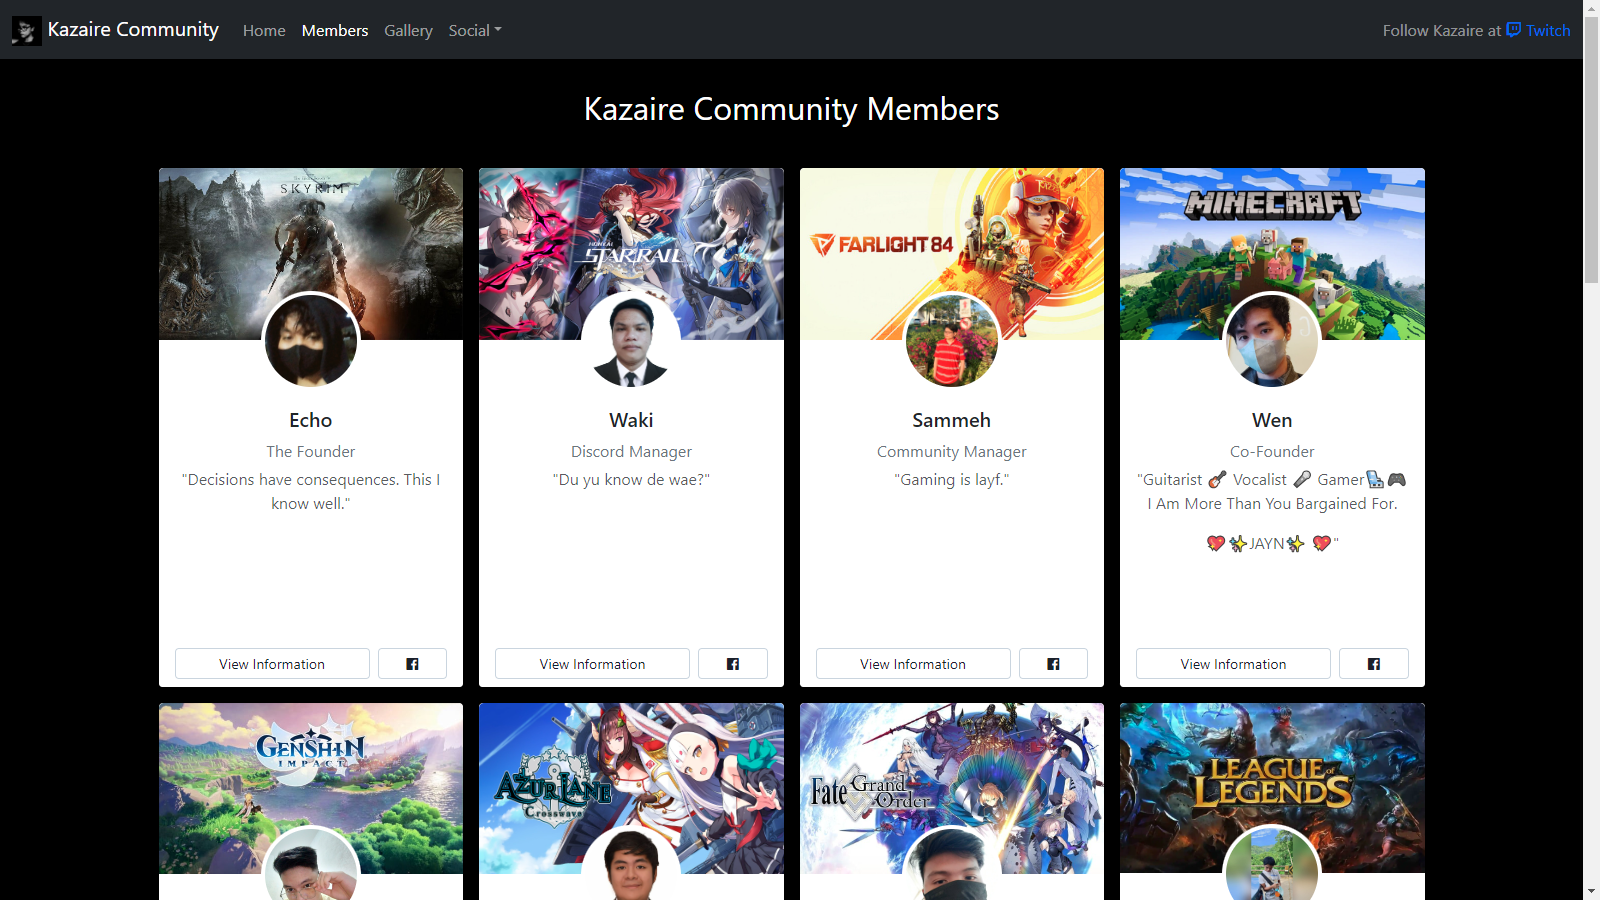
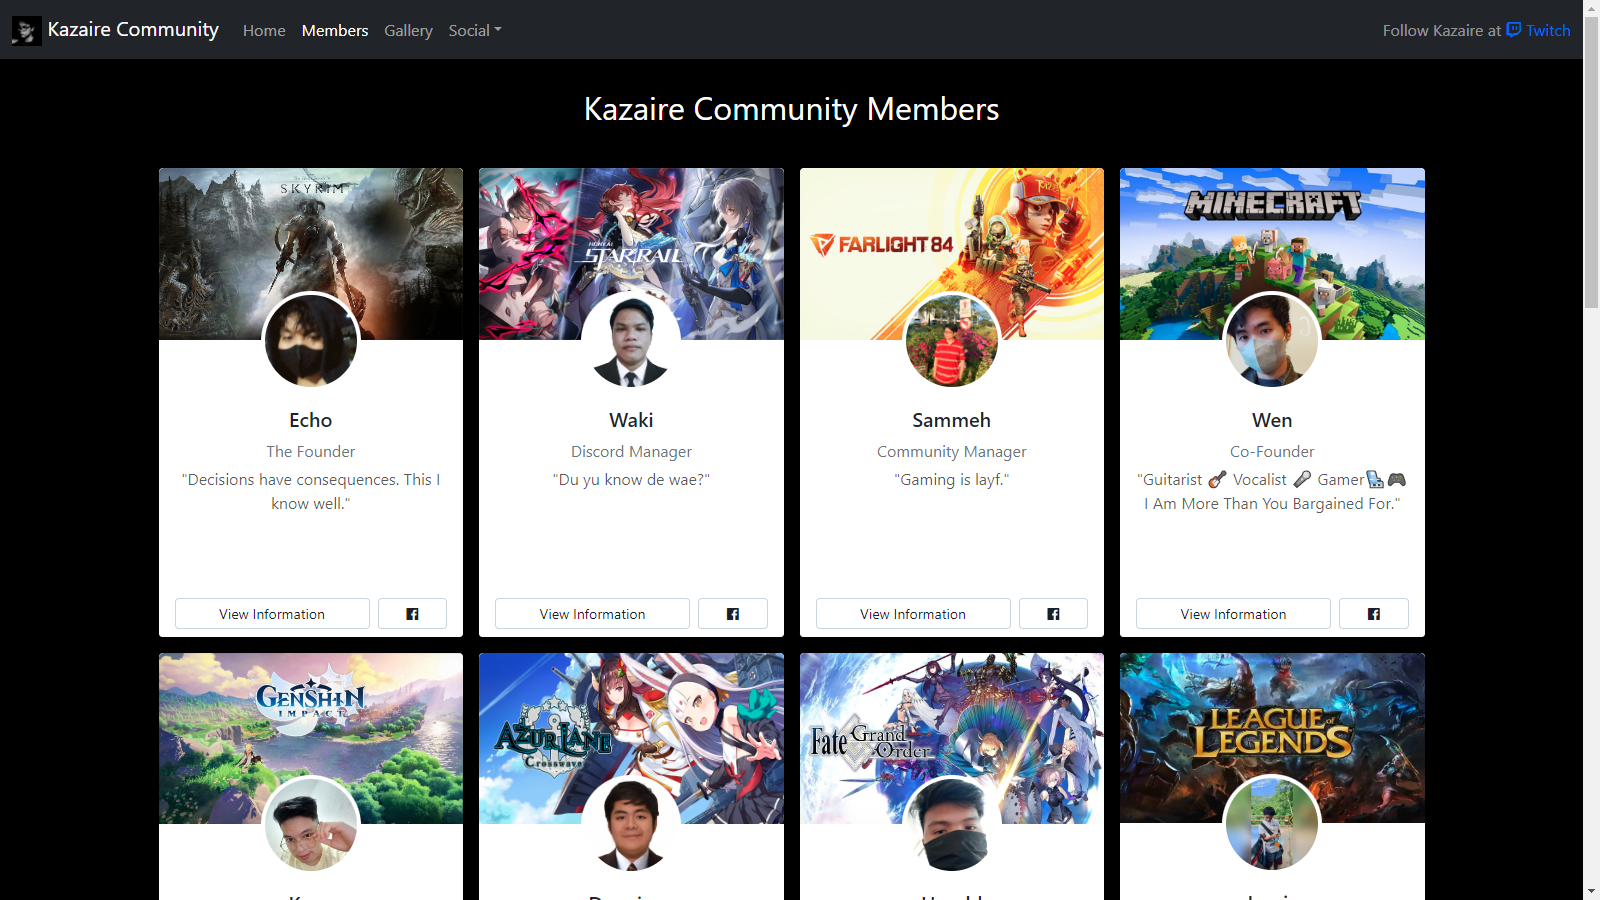
Kazaire Community

Changed region(s): [[0.0938, 0.6533, 0.9062, 1.0], [0.7188, 0.5289, 0.875, 0.6222], [0.9688, 0.3111, 1.0, 0.3422]]

diff --git a/members.html b/members.html
@@ -148,8 +148,7 @@
                   <img src="images/members/wen.jpg" style="width:100px;margin-top:-65px" alt="User" class="img-fluid img-thumbnail rounded-circle border-0 mb-3">
                   <h5 class="card-title">Wen</h5>
                   <p class="text-secondary mb-1">Co-Founder</p>
-                  <p class="text-muted font-size-sm">"Guitarist 🎸 Vocalist 🎤 Gamer💺🎮 <br>I Am More Than You Bargained For. </p>
-                  <p class="text-muted font-size-sm">💖✨JAYN✨ 💖"</p>
+                  <p class="text-muted font-size-sm">"Guitarist 🎸 Vocalist 🎤 Gamer💺🎮 <br>I Am More Than You Bargained For."</p>
                 </div>
                 <div class="card-footer">
                   <button class="btn btn-light btn-sm bg-white has-icon btn-block" type="button" style="width: 300px;"> View Information</button>
@@ -265,8 +264,8 @@
                   <img src="images/members/janice.jpg" style="width:100px;margin-top:-65px" alt="User" class="img-fluid img-thumbnail rounded-circle border-0 mb-3">
                   <h5 class="card-title">Janice</h5>
                   <p class="text-secondary mb-1">Member</p>
-                  <p class="text-muted font-size-sm">"Medyo gamer. <br>
-                    <br>💖✨JAYN✨💖 <br>Black | Wolf × HPBメ × Ecin"
+                  <p class="text-muted font-size-sm">"Medyo gamer.
+                    <br>Black | Wolf × HPBメ × Ecin"
                   </p>
                 </div>
                 <div class="card-footer">

diff --git a/css/gallery.css b/css/gallery.css
@@ -155,8 +155,8 @@ h2 {
   transition: transform 0.15s ease 0s;
   -webkit-transform: scale3d(1, 1, 1);
   transform: scale3d(1, 1, 1);
-  height: 165px;
-  width: 165px;
+  height: 165px; /* Remove this if not needed. */
+  width: 165px; /* Change this back to 100% if needed. */
 }
 .demo-gallery > ul > li a:hover > img {
   -webkit-transform: scale3d(1.1, 1.1, 1.1);

diff --git a/css/members.css b/css/members.css
@@ -20,7 +20,7 @@
 .card-body {
   flex: 1 1 auto;
   min-height: 1px;
-  height: 300px; /* Adjust this if the bio is too long. */
+  height: 250px; /* Adjust this if the bio is too long. Return to 100% if just right. */
   padding: 1rem;
 }
 
